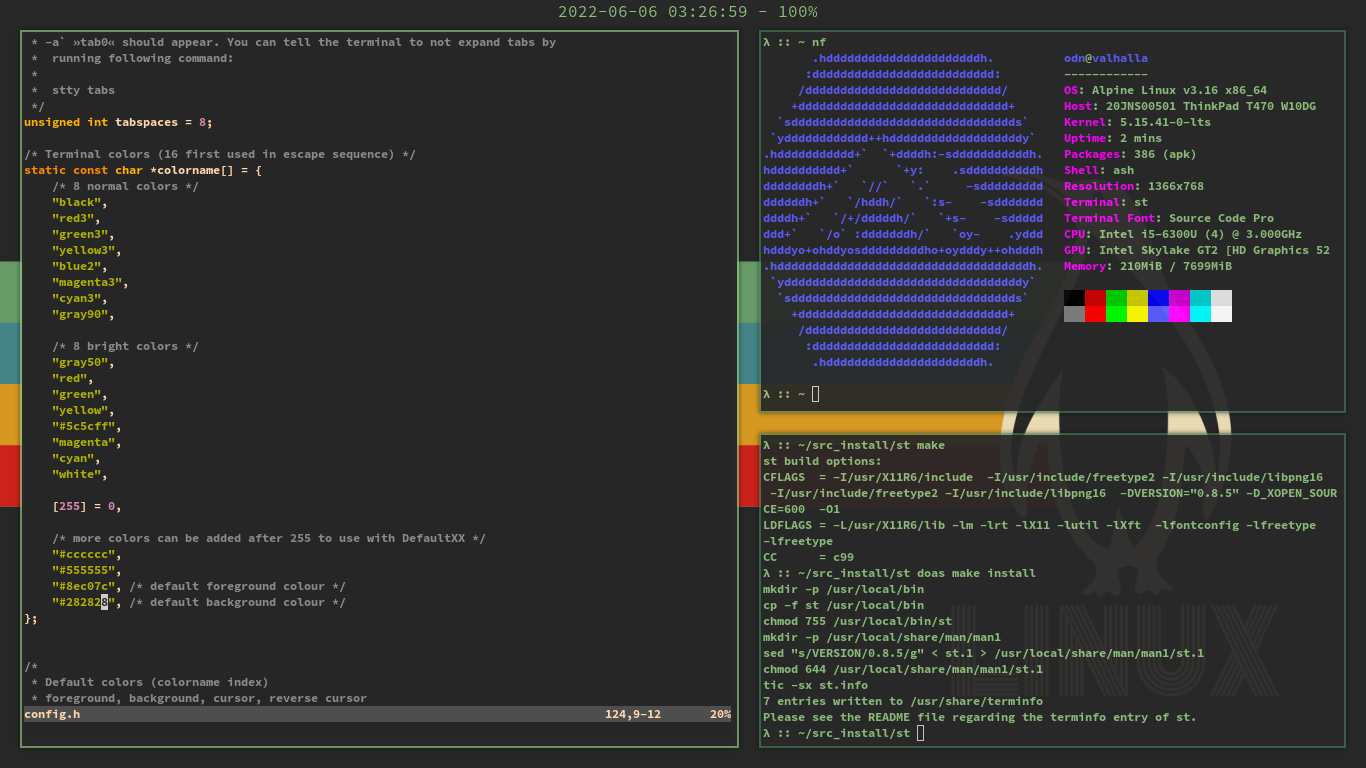
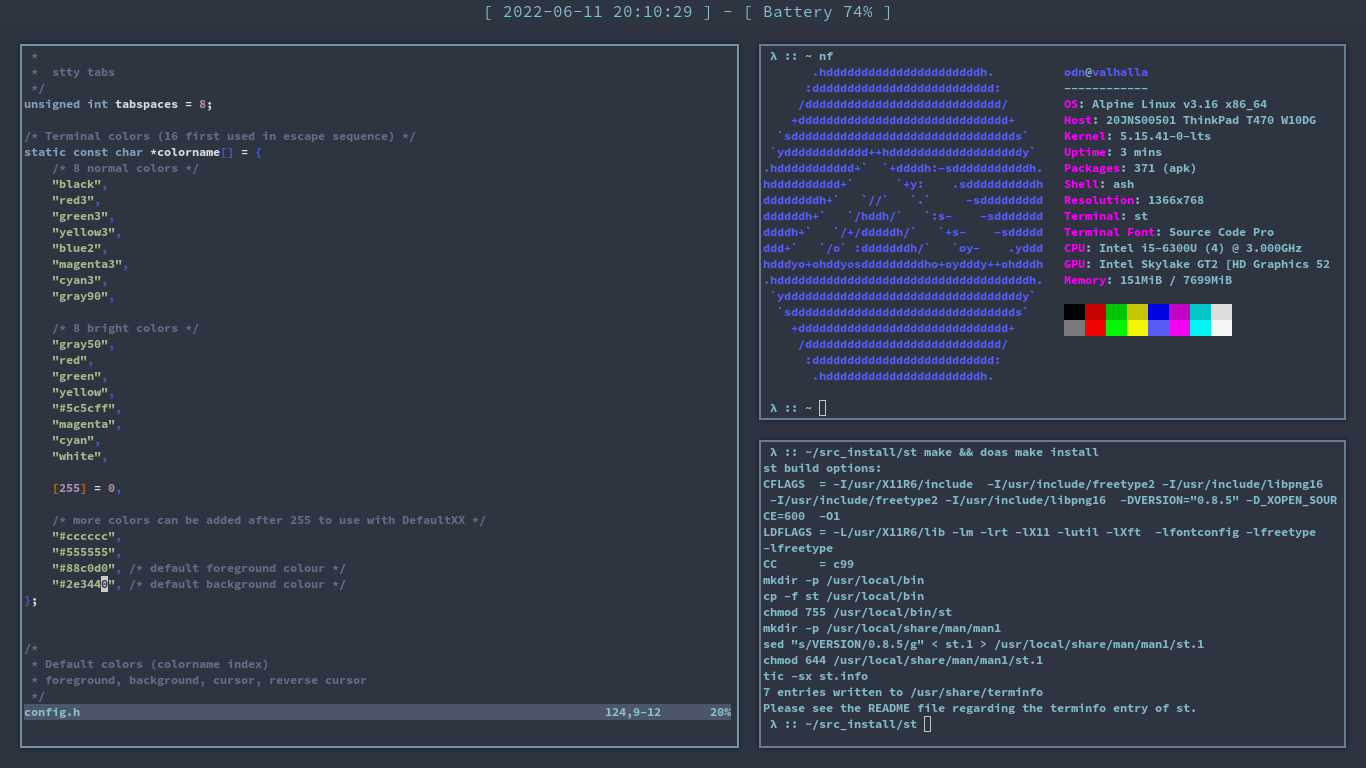
modified:   .config/bspwm/bspwmrc 	modified:   .config/nvim/init.vim 	modified:   .xinitrc 	new file:   images/nord.png 	modified:   src_install/st/config.h 	modified:   ss.png

diff --git a/src_install/st/config.h b/src_install/st/config.h
@@ -120,8 +120,8 @@ static const char *colorname[] = {
 	/* more colors can be added after 255 to use with DefaultXX */
 	"#cccccc",
 	"#555555",
-	"#8ec07c", /* default foreground colour */
-	"#282828", /* default background colour */
+	"#88c0d0", /* default foreground colour */
+	"#2e3440", /* default background colour */
 };
 
 
